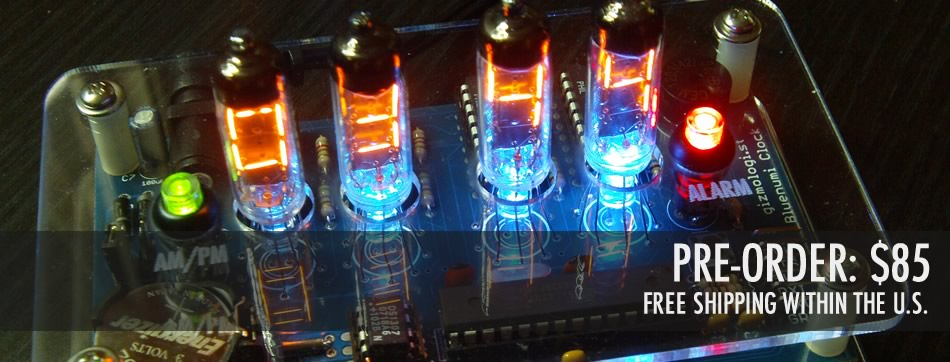
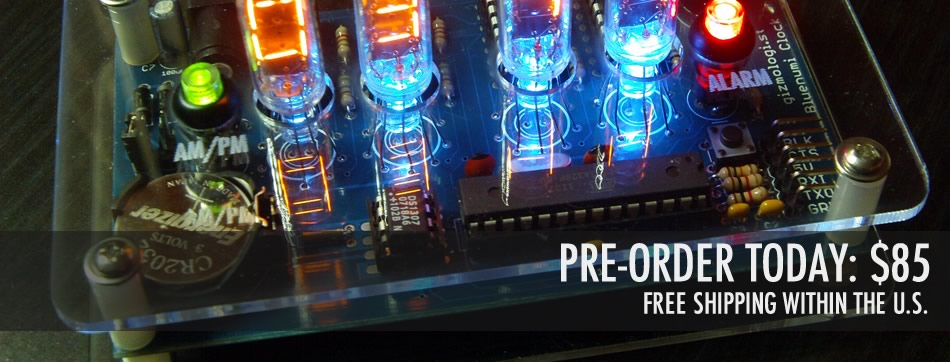
Update slideshow

diff --git a/index.html b/index.html
@@ -42,6 +42,9 @@
             <img src="img/slide_2.jpg" />
           </div>
           <div class="slide">
+            <img src="img/slide_4.jpg" />
+          </div>
+          <div class="slide">
             <img src="img/slide_3.jpg" />
           </div>
         </div>
